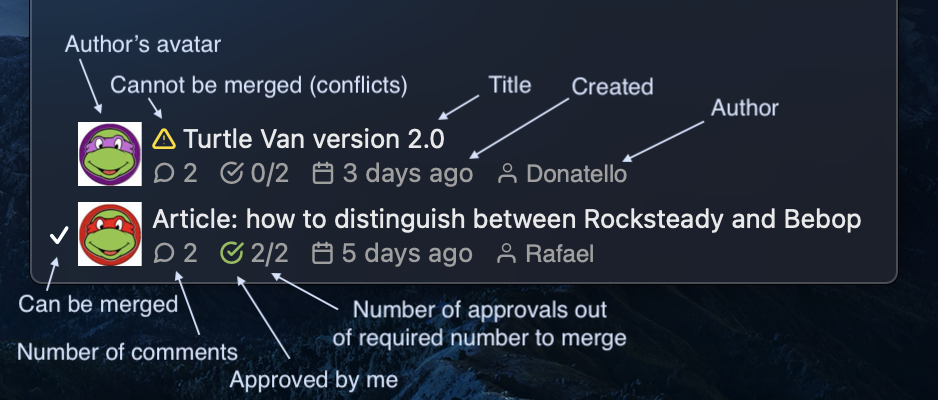
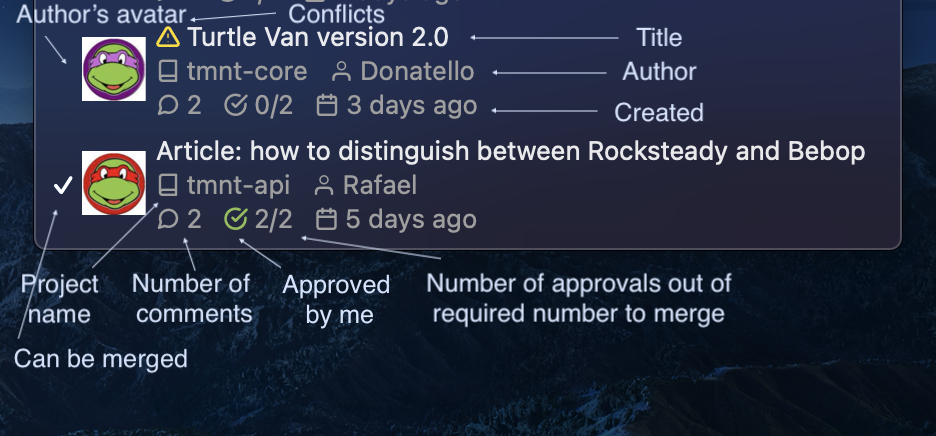
Added check for updates button and project name

diff --git a/README.md b/README.md
@@ -26,7 +26,7 @@ Each item in the list is showing following information:
  - install [Hammerspoon](http://www.hammerspoon.org/) - a powerfull automation tool for OS X
    - Manually:
 
-      Download the [latest release], and drag Hammerspoon.app from your Downloads folder to Applications.
+      Download the [latest release](https://github.com/Hammerspoon/hammerspoon/releases/latest), and drag Hammerspoon.app from your Downloads folder to Applications.
    - Homebrew:
 
       ```brew install hammerspoon --cask```
